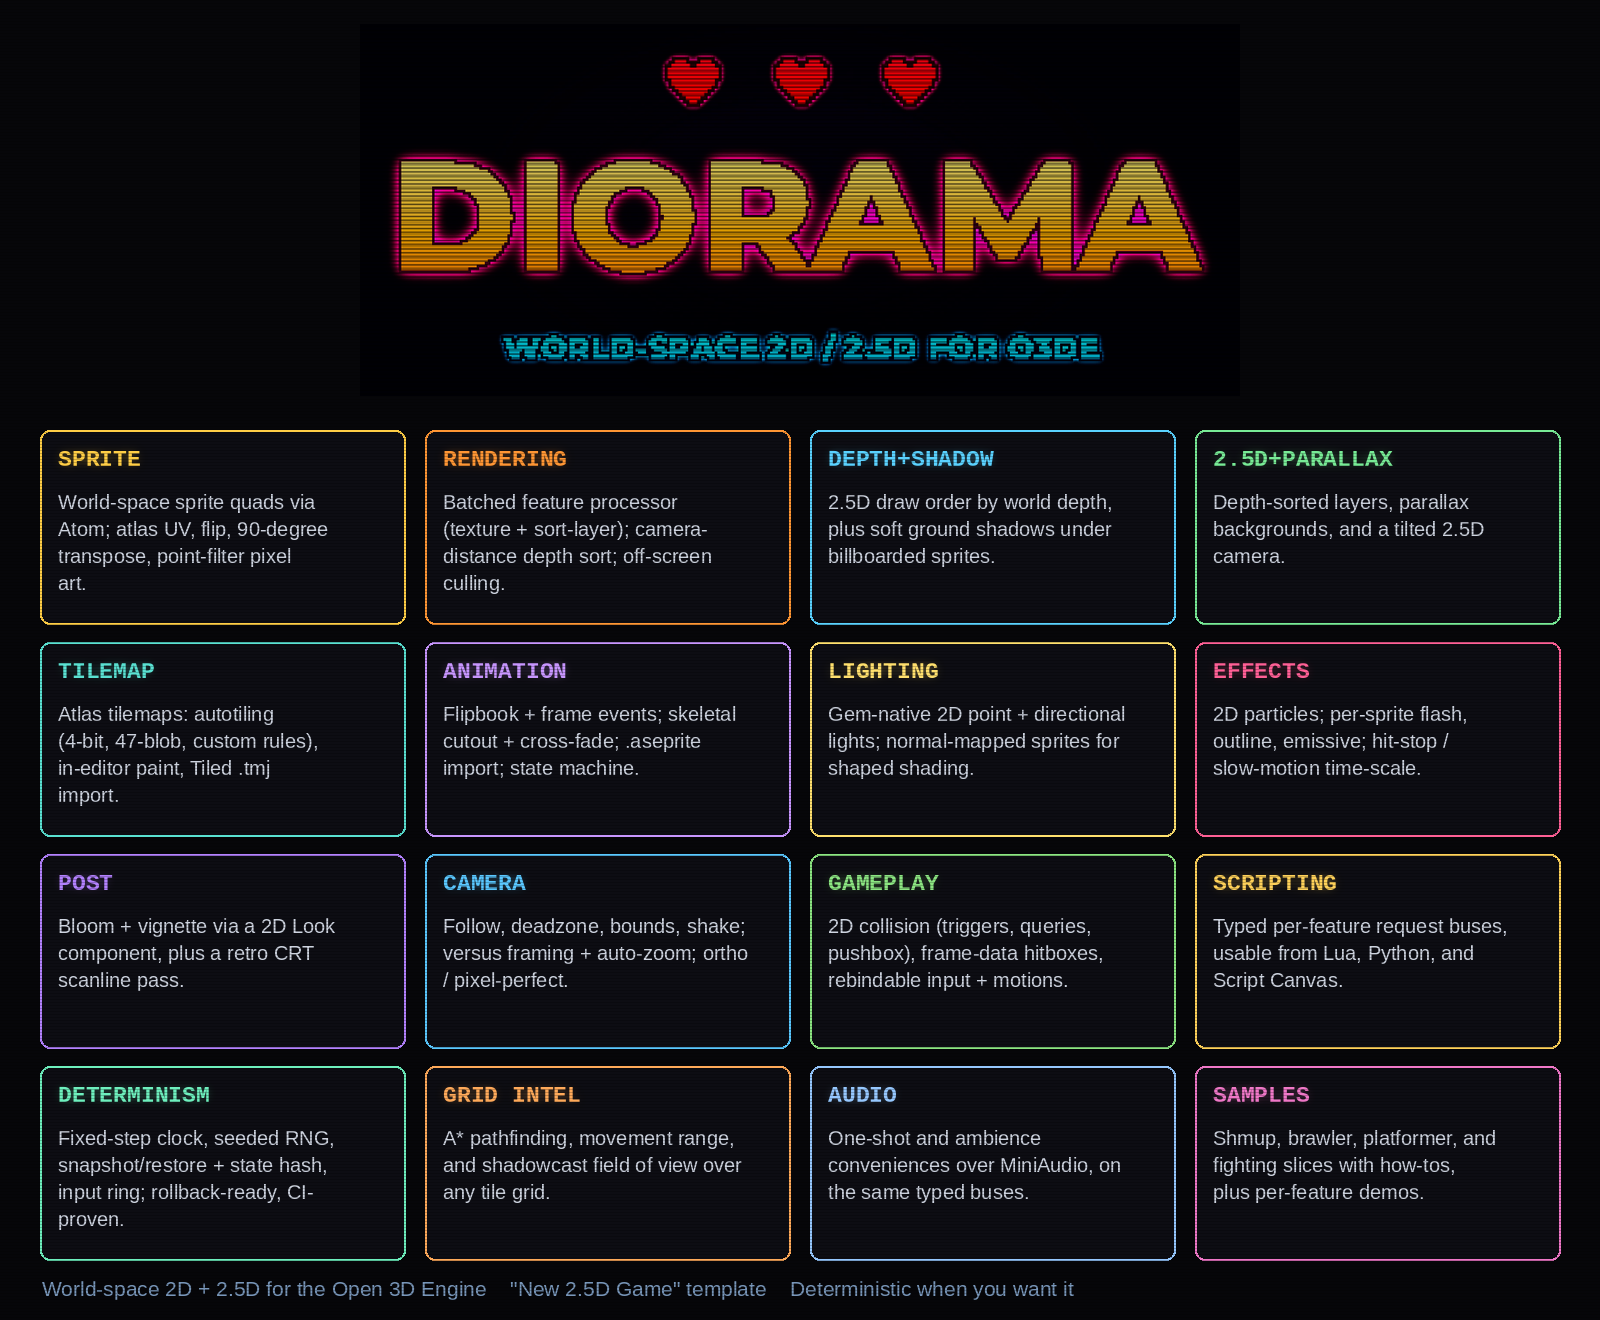
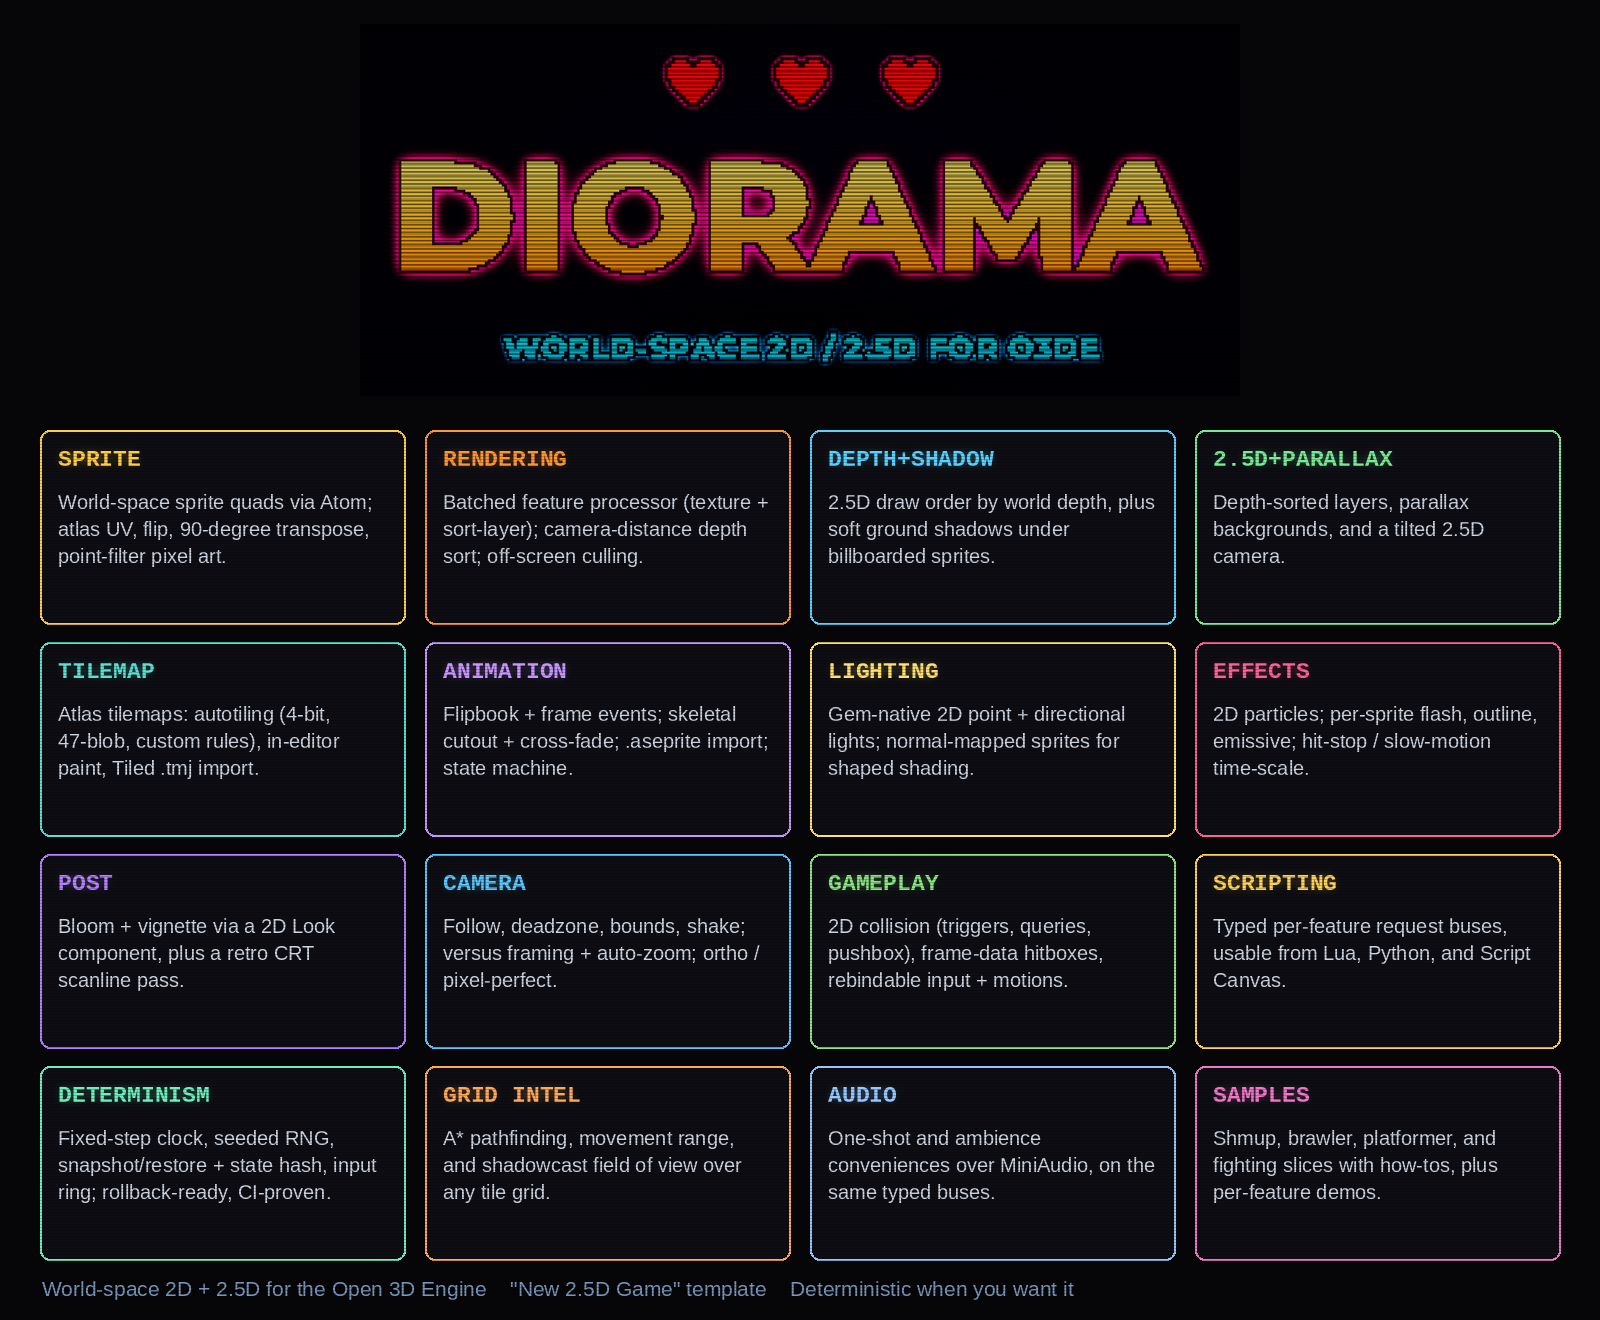
Feature card: pixel-measured text wrap (fixes remaining tile overflow)
The previous fix wrapped by character count, which underestimates wide
glyphs, so Animation and Gameplay still spilled past their right borders.
Descriptions now wrap against the measured pixel width inside the tile
padding, and the render-time guard checks both line count and rendered
line width, so neither vertical nor horizontal overflow can ship again.
Verified at full resolution on the two reported tiles.

diff --git a/scripts/gen_feature_card.py b/scripts/gen_feature_card.py
@@ -61,10 +61,23 @@ for i, (title, col, desc) in enumerate(TILES):
     d.rounded_rectangle([cx, cy, cx + tw, cy + th], radius=10, fill=(13, 13, 19, 255), outline=col + (255,), width=2)
     neon_text((cx + 18, cy + 16), title, tfont, col, glow=6)
     yy = cy + 60
-    lines = textwrap.wrap(desc, width=33)
+    # Pixel-measured wrap: character counts lie (glyph widths vary), so accumulate
+    # words against the actual rendered width inside the tile padding.
+    text_w = tw - 36  # 18px padding each side
+    lines, cur = [], ""
+    for word in desc.split():
+        trial = word if not cur else cur + " " + word
+        if dfont.getlength(trial) <= text_w:
+            cur = trial
+        else:
+            lines.append(cur)
+            cur = word
+    if cur:
+        lines.append(cur)
     max_lines = (th - 60 - 14) // 27  # text area below the title, 14px bottom pad
     assert len(lines) <= max_lines, f"{title}: {len(lines)} lines > {max_lines} (tile overflow)"
     for line in lines:
+        assert dfont.getlength(line) <= text_w, f"{title}: line wider than tile: {line!r}"
         d.text((cx + 18, yy), line, font=dfont, fill=(206, 212, 224, 255)); yy += 27
 
 # footer (no version)
